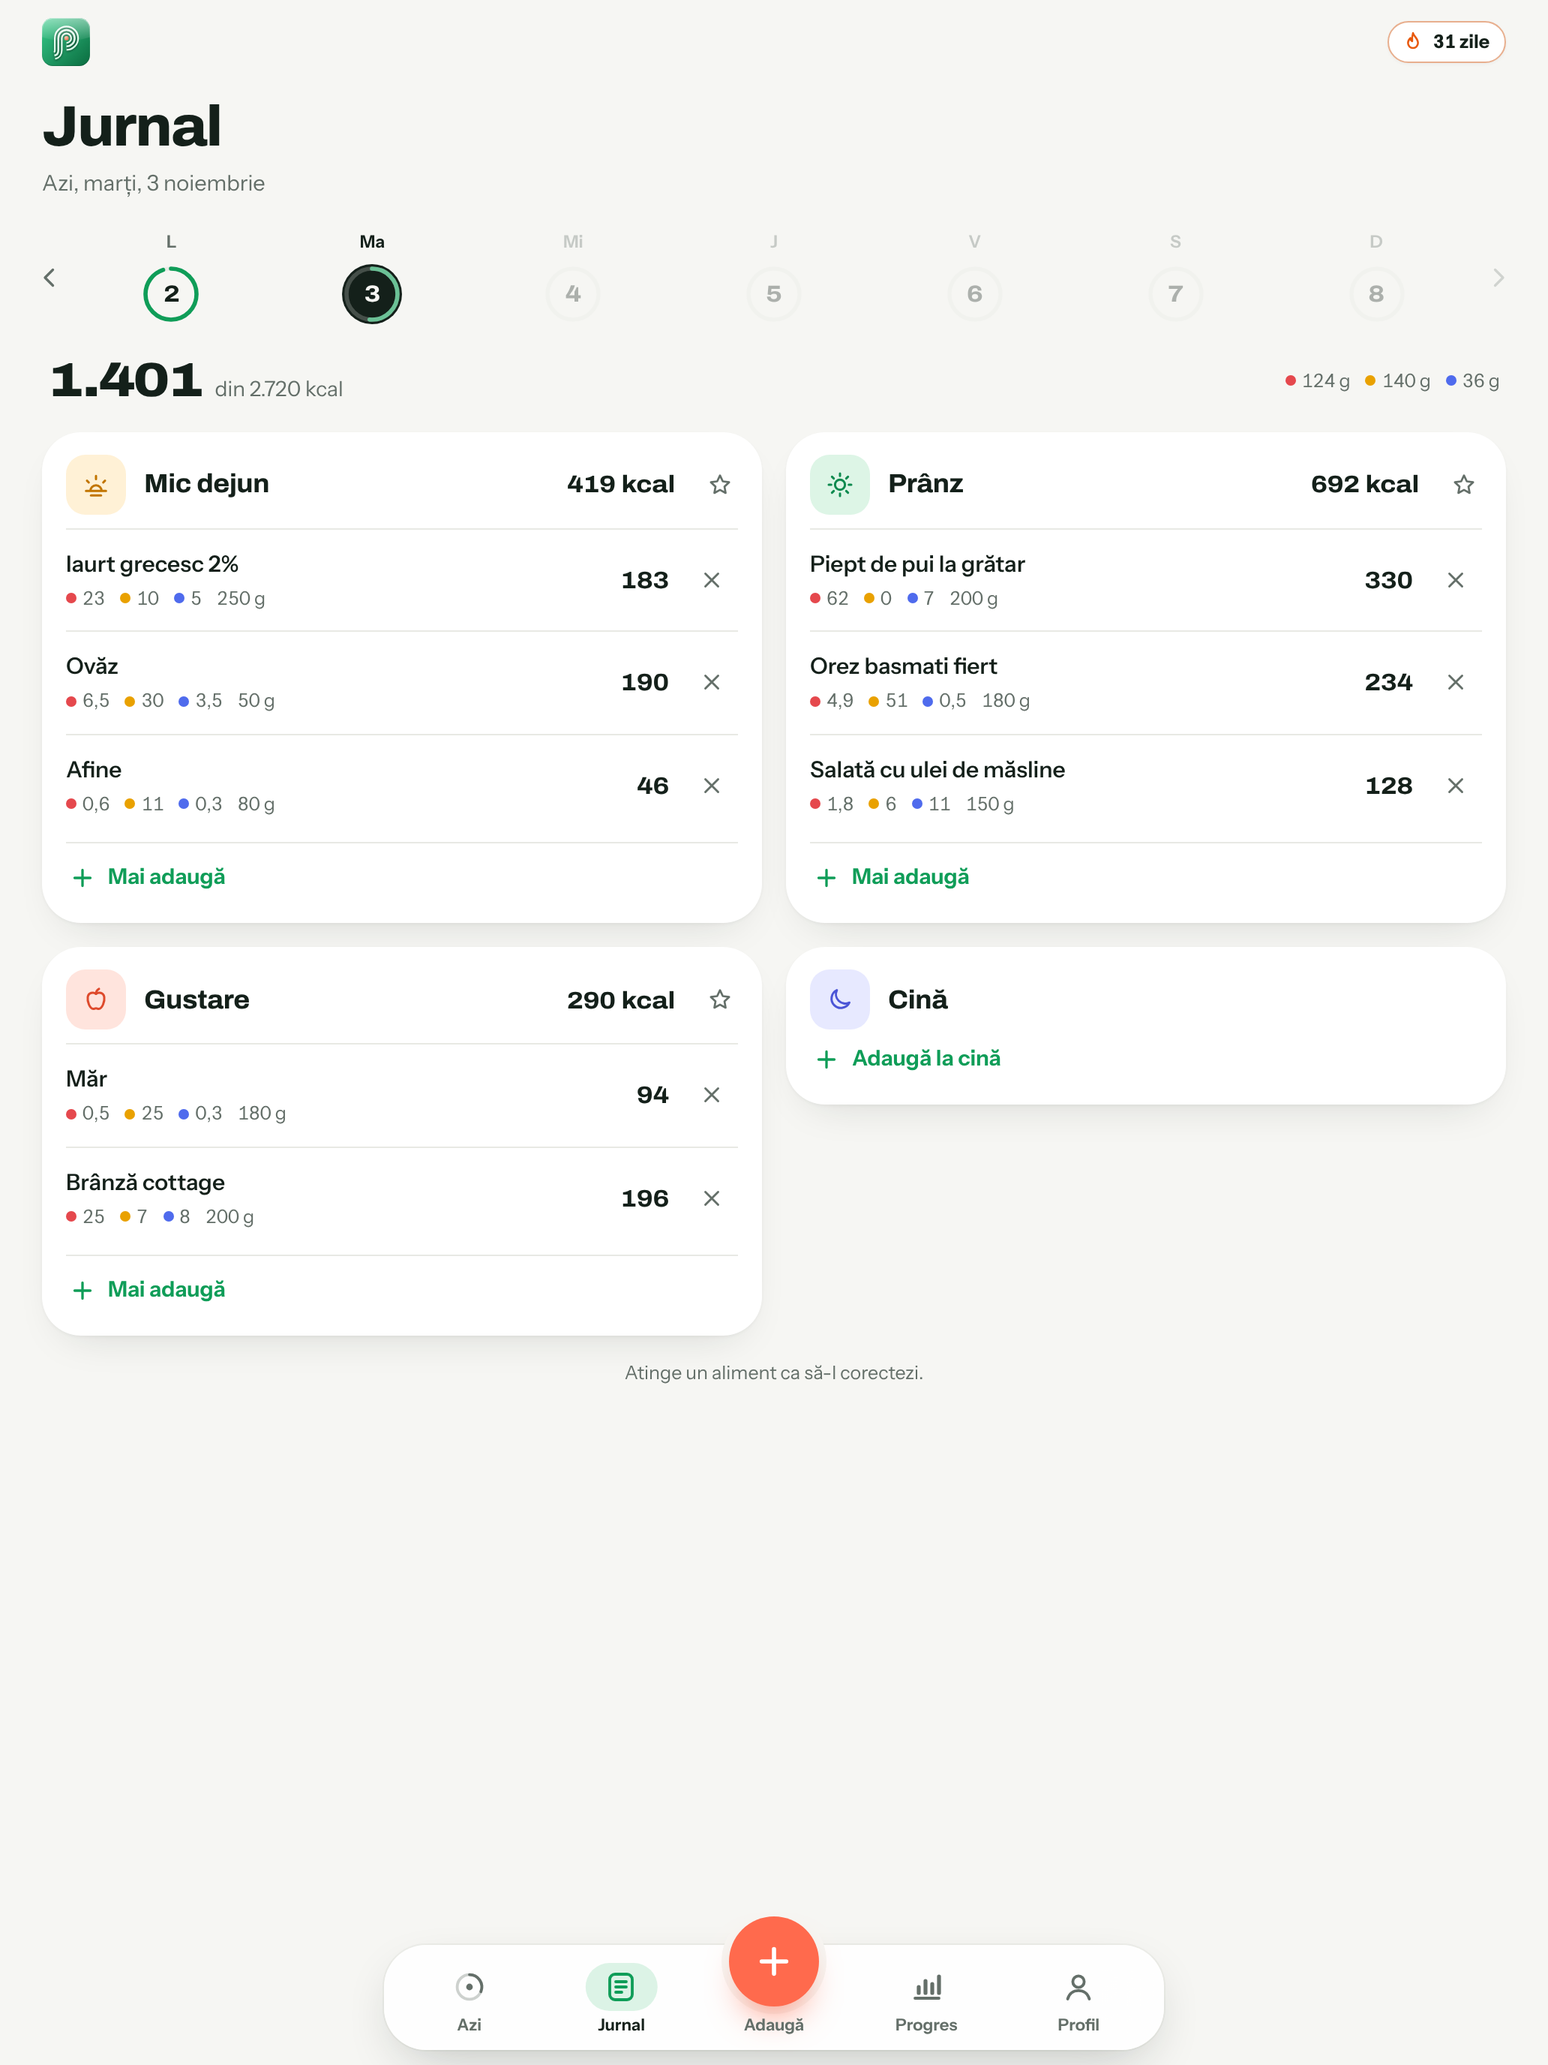
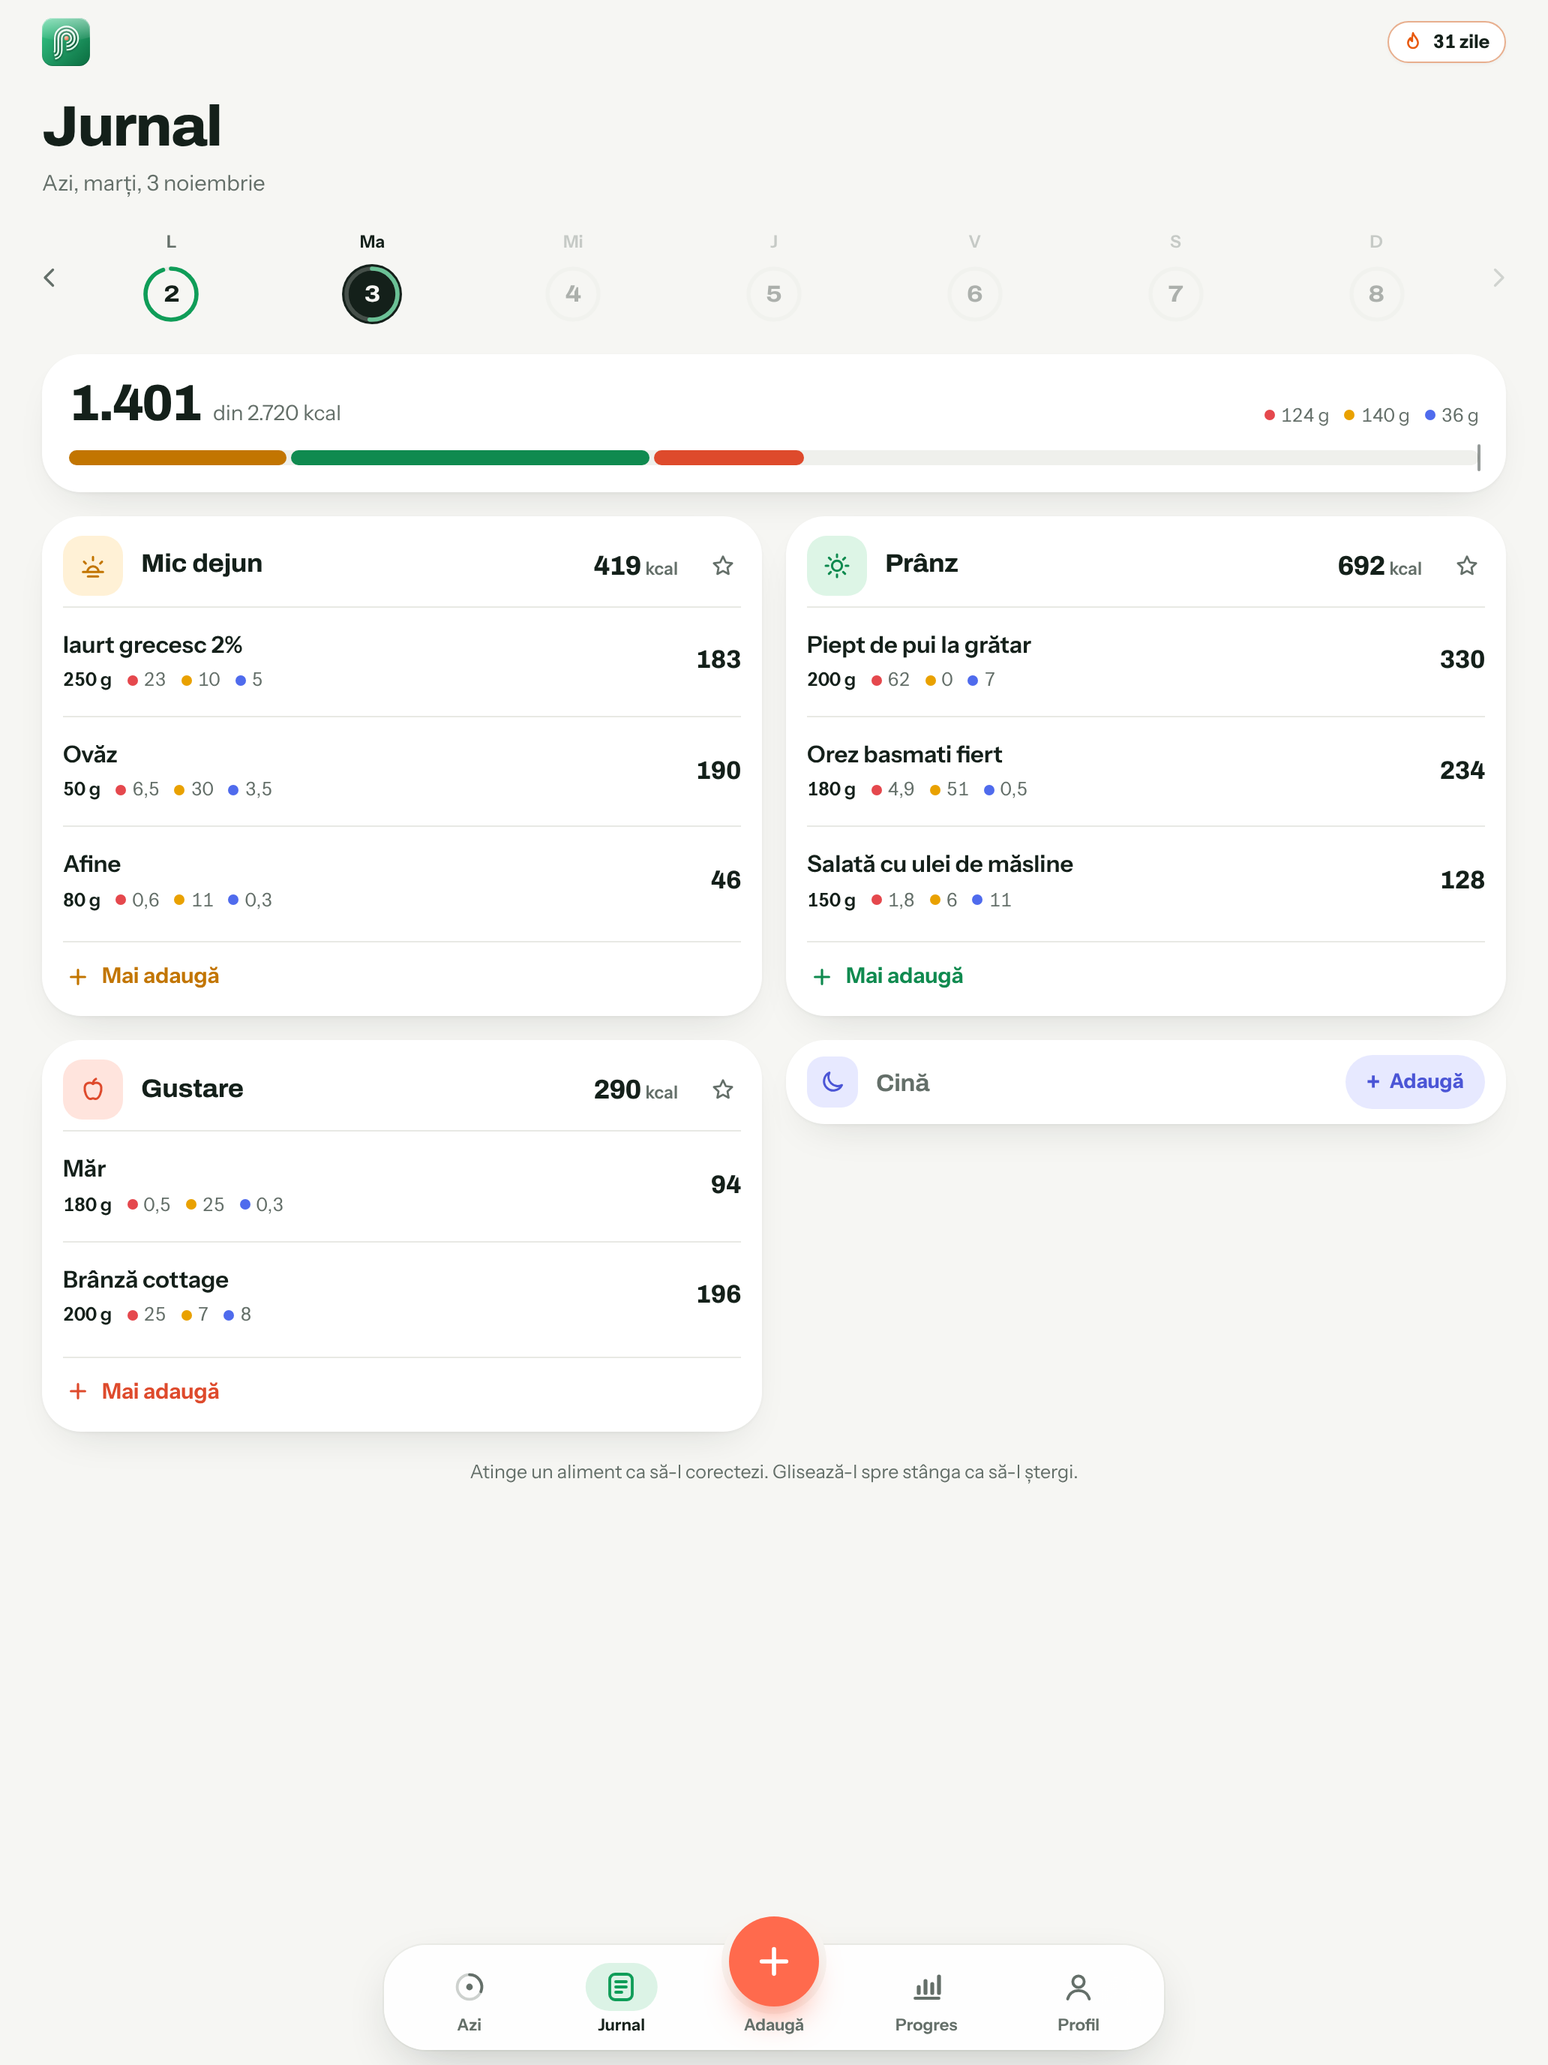
Jurnal și foaia de editare în stilul nou
- Ziua stă pe un card: caloriile mari, macro-urile și o bară care arată
  cât a adus fiecare masă, în culoarea ei, față de țintă.
- Mesele goale sunt un rând subțire cu „Adaugă”, care deschide ecranul
  Adaugă cu masa deja aleasă. Mesele pline au iconița și „Mai adaugă” în
  culoarea mesei, iar gramele apar primele sub fiecare aliment.
- Pe telefon, X-ul de ștergere dispare: alimentul se șterge glisând sau
  din foaia lui. Cu mouse și tastatură rămâne.
- Foaia de editare folosește aceleași câmpuri ca Adaugă: caloriile mari,
  porțiile ca butoane (½ … 2×) și mesele ca plăcuțe colorate.
- Capturile pentru magazine sunt refăcute.

Claude-Session: https://claude.ai/code/session_01THEXYzYb5U7JoghRZLky4L

diff --git a/js/app.js b/js/app.js
@@ -1536,22 +1536,22 @@ function openEdit(id){
   const b = S.edit.base;
   $('#editCard').innerHTML =
     '<div class="sheet-head"><h2 id="edTitle" tabindex="-1">Editează alimentul</h2><button class="icon-btn" data-action="close-edit" aria-label="Închide">' + X_ICON + '</button></div>' +
-    '<div class="mgrid">' +
-      '<div class="full"><label class="lbl" for="eName">Aliment</label><input type="text" id="eName" value="' + esc(b.name) + '"></div>' +
-      '<div class="half"><label class="lbl" for="eK">Calorii</label><div class="unit"><input type="text" inputmode="decimal" id="eK" value="' + inVal(b.kcal) + '"><em>kcal</em></div></div>' +
-      '<div class="half"><label class="lbl" for="eG">Cantitate</label><div class="unit"><input type="text" inputmode="decimal" id="eG" value="' + inVal(b.grams) + '" placeholder="opțional"><em>g</em></div></div>' +
-      '<div class="half"><label class="lbl" for="eP">Proteine</label><div class="unit"><input type="text" inputmode="decimal" id="eP" value="' + inVal(b.protein) + '"><em>g</em></div></div>' +
-      '<div class="half"><label class="lbl" for="eC">Glucide</label><div class="unit"><input type="text" inputmode="decimal" id="eC" value="' + inVal(b.carbs) + '"><em>g</em></div></div>' +
-      '<div class="half"><label class="lbl" for="eF">Grăsimi</label><div class="unit"><input type="text" inputmode="decimal" id="eF" value="' + inVal(b.fat) + '"><em>g</em></div></div>' +
+    '<label class="sr" for="eName">Aliment</label><div class="dict mname"><input type="text" id="eName" value="' + esc(b.name) + '" autocomplete="off"></div>' +
+    '<div class="mtiles">' +
+      '<label class="mtile big"><span class="mt-l">Calorii</span><span class="unit"><input type="text" inputmode="decimal" id="eK" value="' + inVal(b.kcal) + '"><em>kcal</em></span></label>' +
+      '<label class="mtile"><span class="mt-l">Cantitate</span><span class="unit"><input type="text" inputmode="decimal" id="eG" value="' + inVal(b.grams) + '" placeholder="—"><em>g</em></span></label>' +
+      '<label class="mtile m-p"><span class="mt-l">Proteine</span><span class="unit"><input type="text" inputmode="decimal" id="eP" value="' + inVal(b.protein) + '"><em>g</em></span></label>' +
+      '<label class="mtile m-c"><span class="mt-l">Glucide</span><span class="unit"><input type="text" inputmode="decimal" id="eC" value="' + inVal(b.carbs) + '"><em>g</em></span></label>' +
+      '<label class="mtile m-f"><span class="mt-l">Grăsimi</span><span class="unit"><input type="text" inputmode="decimal" id="eF" value="' + inVal(b.fat) + '"><em>g</em></span></label>' +
     '</div>' +
-    '<div class="edit-block"><span class="lbl">Porție față de cea notată</span><div class="row">' +
-      [[0.5,'½'],[0.75,'¾'],[1,'1×'],[1.5,'1½'],[2,'2×']].map(x => '<button class="chip" data-action="e-scale" data-m="' + x[0] + '" aria-pressed="' + (x[0] === 1) + '">' + x[1] + '</button>').join('') +
+    '<div class="edit-block"><span class="lbl">Porție față de cea notată</span><div class="portion" role="group" aria-label="Porție">' +
+      [[0.5,'½'],[0.75,'¾'],[1,'1×'],[1.5,'1½'],[2,'2×']].map(x => '<button data-action="e-scale" data-m="' + x[0] + '" aria-pressed="' + (x[0] === 1) + '">' + x[1] + '</button>').join('') +
     '</div></div>' +
-    '<div class="edit-block"><span class="lbl">Masa</span><div class="row" role="radiogroup" aria-label="Masa">' +
-      MEALS.map(m => '<button class="chip" role="radio" data-action="e-meal" data-meal="' + m.id + '" aria-checked="' + (m.id === b.meal) + '">' + m.t + '</button>').join('') +
+    '<div class="edit-block"><span class="lbl">Masa</span><div class="meals" role="radiogroup" aria-label="Masa">' +
+      MEALS.map(m => '<button class="ml ml-' + m.id + '" role="radio" data-action="e-meal" data-meal="' + m.id + '" aria-checked="' + (m.id === b.meal) + '"><span class="ml-ic">' + MEAL_ICON[m.id] + '</span><b>' + m.t + '</b></button>').join('') +
     '</div></div>' +
     '<p class="ferr" id="eErr" style="margin-top:12px"></p>' +
-    '<div class="row"><button class="btn danger-ghost" data-action="e-del">Șterge</button><button class="btn primary wide" data-action="e-save">Salvează</button></div>';
+    '<div class="row ebtns"><button class="btn danger-ghost" data-action="e-del">Șterge</button><button class="btn act wide" data-action="e-save">Salvează</button></div>';
   showSheet('#editSheet');
   $('#edTitle').focus({ preventScroll: true });
 }
@@ -3048,20 +3048,30 @@ const STAR_ICON = '<svg viewBox="0 0 24 24" width="18" height="18" fill="none" s
 function renderDiary(){
   const el = $('#diary'); const day = getDay(S.view); const t = dayTotals(day);
   const T = S.profile ? targetsFor(S.view) : null;
-  let html = '<div class="diary-sum"><div class="ds-main"><b>' + fmt(t.kcal) + '</b><span>' + (T ? 'din ' + fmt(T.kcal) + ' kcal' : 'kcal') + '</span></div>' +
-    '<span class="mx"><span><i class="dot p"></i>' + fmt(t.protein) + ' g</span><span><i class="dot c"></i>' + fmt(t.carbs) + ' g</span><span><i class="dot f"></i>' + fmt(t.fat) + ' g</span></span></div>';
+  // the day at the top: what was eaten, and a bar showing which meal brought how much
+  const byMeal = MEALS.map(m => day.entries.filter(e => e.meal === m.id).reduce((a, e) => a + e.kcal, 0));
+  const cap = Math.max(T ? T.kcal : 0, t.kcal) || 1;
+  let html = '<section class="panel diary-sum"><div class="ds-top"><div class="ds-main"><b>' + fmt(t.kcal) + '</b><span>' + (T ? 'din ' + fmt(T.kcal) + ' kcal' : 'kcal') + '</span></div>' +
+    '<span class="mx"><span><i class="dot p"></i>' + fmt(t.protein) + ' g</span><span><i class="dot c"></i>' + fmt(t.carbs) + ' g</span><span><i class="dot f"></i>' + fmt(t.fat) + ' g</span></span></div>' +
+    '<span class="ds-bar' + (T && t.kcal > T.kcal ? ' is-over' : '') + '" aria-hidden="true">' + MEALS.map((m, i) => byMeal[i] ? '<i class="ml-' + m.id + '" style="width:' + (byMeal[i] / cap * 100).toFixed(2) + '%"></i>' : '').join('') +
+      (T ? '<b class="ds-t" style="left:' + Math.min(100, T.kcal / cap * 100).toFixed(2) + '%"></b>' : '') + '</span></section>';
   if (!S.loaded){ el.innerHTML = html + '<div class="skel" aria-hidden="true"></div>'; return; }
   for (const m of MEALS){
     const list = day.entries.filter(e => e.meal === m.id).sort((a, b) => a.at - b.at);
     const mk = list.reduce((a, e) => a + e.kcal, 0);
-    html += '<section class="panel meal-card" id="meal-' + m.id + '" aria-label="' + m.t + '"><header class="mc-head"><span class="mc-ic">' + MEAL_ICON[m.id] + '</span><h2>' + m.t + '</h2>' +
-      (list.length ? '<span class="mc-k">' + fmt(mk) + ' kcal</span><button class="mc-fav" data-action="fav-save" data-meal="' + m.id + '" aria-label="Salvează ' + m.t.toLowerCase() + ' ca masă favorită">' + STAR_ICON + '</button>' : '') + '</header>' +
-      (list.length ? '<ul class="entries">' + list.map(e =>
-        '<li class="entry"><button class="e-main" data-action="edit" data-id="' + esc(e.id) + '" aria-label="Editează ' + esc(e.name) + '"><span class="nm">' + esc(e.name) + (AI_SRC.has(e.src) ? ' <span class="aitag" title="Estimat de AI">AI</span>' : '') + '</span><span class="mx"><span><i class="dot p"></i>' + fmt1(e.protein) + '</span><span><i class="dot c"></i>' + fmt1(e.carbs) + '</span><span><i class="dot f"></i>' + fmt1(e.fat) + '</span>' + (e.grams ? '<span>' + fmt(e.grams) + ' g</span>' : '') + '</span></button>' +
-        '<span class="kc">' + fmt(e.kcal) + '</span><button class="del" data-action="del" data-id="' + esc(e.id) + '" aria-label="Șterge ' + esc(e.name) + '">' + X_ICON + '</button></li>').join('') + '</ul>' : '') +
-      '<button class="mc-add" data-action="add-to" data-meal="' + m.id + '">' + '<svg viewBox="0 0 24 24" width="18" height="18" fill="none" stroke="currentColor" stroke-width="2.2" stroke-linecap="round" aria-hidden="true"><path d="M12 5v14M5 12h14"/></svg>' + (list.length ? 'Mai adaugă' : 'Adaugă la ' + m.t.toLowerCase()) + '</button></section>';
+    if (!list.length){
+      // an empty meal is one slim row that adds to it
+      html += '<section class="panel meal-card is-empty ml-' + m.id + '" id="meal-' + m.id + '" aria-label="' + m.t + '"><button class="mc-row" data-action="add-to" data-meal="' + m.id + '"><span class="mc-ic">' + MEAL_ICON[m.id] + '</span><h2>' + m.t + '</h2><span class="mc-plus">Adaugă</span></button></section>';
+      continue;
+    }
+    html += '<section class="panel meal-card ml-' + m.id + '" id="meal-' + m.id + '" aria-label="' + m.t + '"><header class="mc-head"><span class="mc-ic">' + MEAL_ICON[m.id] + '</span><h2>' + m.t + '</h2>' +
+      '<span class="mc-k">' + fmt(mk) + ' <small>kcal</small></span><button class="mc-fav" data-action="fav-save" data-meal="' + m.id + '" aria-label="Salvează ' + m.t.toLowerCase() + ' ca masă favorită">' + STAR_ICON + '</button></header>' +
+      '<ul class="entries">' + list.map(e =>
+        '<li class="entry"><button class="e-main" data-action="edit" data-id="' + esc(e.id) + '" aria-label="Editează ' + esc(e.name) + '"><span class="nm">' + esc(e.name) + (AI_SRC.has(e.src) ? ' <span class="aitag" title="Estimat de AI">AI</span>' : '') + '</span><span class="mx">' + (e.grams ? '<span class="g">' + fmt(e.grams) + ' g</span>' : '') + '<span><i class="dot p"></i>' + fmt1(e.protein) + '</span><span><i class="dot c"></i>' + fmt1(e.carbs) + '</span><span><i class="dot f"></i>' + fmt1(e.fat) + '</span></span></button>' +
+        '<span class="kc">' + fmt(e.kcal) + '</span><button class="del" data-action="del" data-id="' + esc(e.id) + '" aria-label="Șterge ' + esc(e.name) + '">' + X_ICON + '</button></li>').join('') + '</ul>' +
+      '<button class="mc-add" data-action="add-to" data-meal="' + m.id + '"><svg viewBox="0 0 24 24" width="16" height="16" fill="none" stroke="currentColor" stroke-width="2.4" stroke-linecap="round" aria-hidden="true"><path d="M12 5v14M5 12h14"/></svg>Mai adaugă</button></section>';
   }
-  if (t.n) html += '<p class="hint diary-hint">Atinge un aliment ca să-l corectezi.</p>';
+  if (t.n) html += '<p class="hint diary-hint">Atinge un aliment ca să-l corectezi. Glisează-l spre stânga ca să-l ștergi.</p>';
   el.innerHTML = html;
   renderMealsToday(day);
 }

diff --git a/css/styles.css b/css/styles.css
@@ -1140,3 +1140,50 @@ h2{font-stretch:104%;font-weight:750}
 .bc-card .chip[aria-pressed="true"]{background:var(--ink);color:var(--surface)}
 /* every "add this food" button carries the main-action colour */
 .btn.primary:is([data-action="bc-add"],[data-action="commit"],[data-action="rl-add"]){background:var(--act);color:var(--on-act);box-shadow:0 14px 26px -16px var(--act)}
+
+/* ================= Jurnal: the day on one card, then the meals ================= */
+.ml-breakfast{--mc:var(--m1);--mi:var(--m1i)} .ml-lunch{--mc:var(--m2);--mi:var(--m2i)} .ml-snack{--mc:var(--m3);--mi:var(--m3i)} .ml-dinner{--mc:var(--m4);--mi:var(--m4i)}
+.diary-sum{display:flex;flex-direction:column;align-items:stretch;gap:14px;padding:16px 18px 18px}
+.ds-top{display:flex;align-items:flex-end;justify-content:space-between;gap:8px 14px;flex-wrap:wrap}
+.ds-main b{font-stretch:96%;font-weight:820;font-size:34px;letter-spacing:-.035em}
+/* which meal brought how much, in the meals' colours, against the day's target */
+.ds-bar{position:relative;display:flex;gap:3px;height:10px;border-radius:99px;background:var(--sunk)}
+.ds-bar i{display:block;height:100%;border-radius:99px;background:var(--mi);min-width:6px;transition:width .5s cubic-bezier(.2,.8,.2,1)}
+.ds-bar .ds-t{position:absolute;top:-4px;width:2px;height:18px;margin-left:-1px;border-radius:1px;background:var(--ink);opacity:.45}
+.meal-card{padding:12px 14px 4px}
+.meal-card .mc-ic,.meal-card.is-empty .mc-ic{background:var(--mc);color:var(--mi)}
+.mc-head{gap:12px}
+.mc-head h2{font-size:17px}
+.mc-k{font-stretch:96%;font-weight:800;font-size:18px;letter-spacing:-.02em}
+.mc-k small{font-family:var(--f-body);font-size:12px;font-weight:600;color:var(--muted);letter-spacing:0}
+.meal-card .entries{margin-top:6px}
+.entry{border-top:1px solid var(--line);padding:10px 0;gap:2px 10px;background:var(--surface)}
+.entry .nm{font-weight:620;font-size:15.5px}
+.entry .mx{margin-top:3px}
+.entry .mx .g{color:var(--ink);font-weight:600}
+.entry .kc{font-stretch:96%;font-weight:780;font-size:17px;letter-spacing:-.01em}
+.mc-add{color:var(--mi);border-top:1px solid var(--line);padding:12px 2px 12px}
+/* an empty meal is one slim row */
+.meal-card.is-empty{padding:0}
+.mc-row{display:flex;align-items:center;gap:12px;width:100%;padding:10px 14px;border:0;background:none;color:var(--ink);cursor:pointer;text-align:left;border-radius:inherit}
+.mc-row h2{flex:1;font-size:16px;color:var(--muted);font-weight:700}
+.mc-row .mc-ic{width:34px;height:34px;border-radius:11px}
+.mc-plus{display:inline-flex;align-items:center;gap:6px;padding:8px 14px;border-radius:99px;background:var(--mc);color:var(--mi);font-weight:700;font-size:13.5px}
+.mc-plus::before{content:"+";font-size:17px;line-height:1;font-weight:700}
+.mc-row:active{transform:scale(.985)}
+/* on phones, a food is deleted by swiping it or from its sheet; the cross stays for mouse and keyboard */
+@media (hover:none) and (pointer:coarse){#diary .del{display:none}#diary .entry{grid-template-columns:minmax(0,1fr) auto}}
+.diary-hint{margin-top:2px}
+
+/* ================= the edit sheet speaks the same language as Adaugă ================= */
+#editCard .mname{margin-bottom:12px}
+#editCard .mtiles{margin-bottom:4px}
+.portion{display:grid;grid-template-columns:repeat(5,minmax(0,1fr));gap:4px;padding:4px;border-radius:16px;background:var(--sunk)}
+.portion button{border:0;background:transparent;border-radius:12px;padding:10px 0;font-family:var(--f-display);font-stretch:96%;font-weight:760;font-size:16px;color:var(--muted);cursor:pointer;transition:background-color .2s,color .2s,box-shadow .2s}
+.portion button[aria-pressed="true"]{background:var(--surface);color:var(--ink);box-shadow:0 1px 2px rgb(0 0 0 / .06),0 6px 14px -6px rgb(0 0 0 / .16)}
+#editCard .meals{margin:0}
+#editCard .ml{box-shadow:none;background:var(--sunk)}
+#editCard .ml[aria-checked="true"]{background:var(--mc)}
+.ebtns{margin-top:6px;flex-wrap:nowrap}
+.ebtns .btn.act{width:auto;flex:1}
+.ebtns .btn.danger-ghost{min-height:54px;border-radius:18px;padding-inline:20px}
